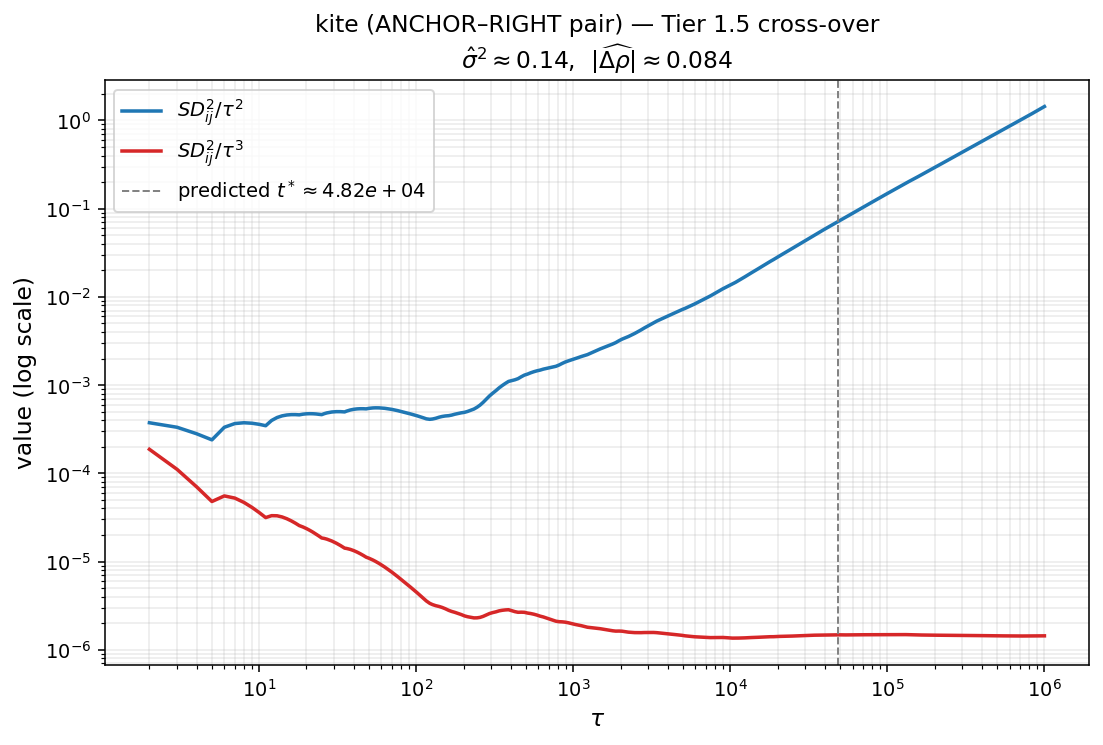
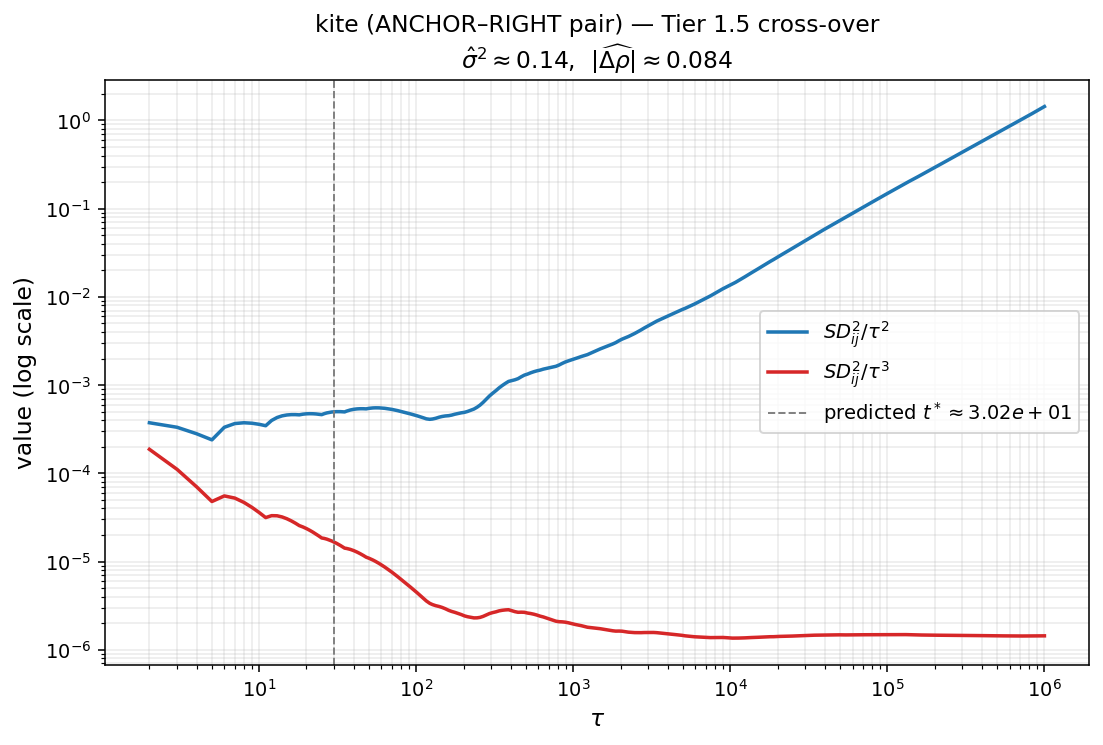
fix: Tier1.5 cross-over 본문 정정 (식 일관 + 한 흐름 + 볼드 제거)

diff --git a/docs/Posts/260522_eed71e.html b/docs/Posts/260522_eed71e.html
@@ -222,86 +222,22 @@ window.Quarto = {
 
 
 <!-- 소유권자: 소미 | 사용자: 소미 -->
-<p>Snow Distance <span class="math inline">\(SD^2_{ij}(t) = \sum_{s=0}^t (h(v_i,s)-h(v_j,s))^2\)</span> 의 후미 스케일링은 두 노드의 장기 적립률 <span class="math inline">\(\rho_i, \rho_j\)</span> 에 따라 셋 중 하나로 갈린다. <span class="math inline">\(\rho_i = \rho_j = 1/n\)</span> 이면 <span class="math inline">\(SD^2/t \to c\)</span>, 같지만 글로벌 불균형이면 <span class="math inline">\(SD^2/t^2 \to \sigma^2/2\)</span>, 다르면 <span class="math inline">\(SD^2/t^3 \to \bar b^2(\rho_i-\rho_j)^2/3\)</span> 이다. 본 글은 한 그래프 안에서 같은 <span class="math inline">\(b\)</span>, 같은 시뮬 양식으로 두 regime 사이 <strong>cross-over</strong> 가 어디서 일어나는지를 직접 본다. <a href="./260520_febfc8.html"><code>연모양 kite 실험</code></a> 과 <a href="./260520_70924e.html"><code>C₆₀+pendant 실험</code></a> 두 데이터를 그대로 가져와 비교한다.</p>
-<section id="cross-over-식-풀이" class="level2">
-<h2 class="anchored" data-anchor-id="cross-over-식-풀이">§1. cross-over 식 풀이</h2>
-<p>높이 차이를 drift 와 fluctuation 으로 나눠 본다. 양 노드의 적립률 차이가 <span class="math inline">\(\Delta\rho := \rho_i - \rho_j\)</span> 이고 평균 적립량이 <span class="math inline">\(\bar b = b/2\)</span> 이면, 적당한 시점 <span class="math inline">\(s\)</span> 에서</p>
-<p><span class="math display">\[
-h(v_i, s) - h(v_j, s) \;\approx\; \bar b\,\Delta\rho \cdot s \;+\; \xi_{ij}(s).
-\]</span></p>
-<p>첫 항은 결정적(deterministic) drift 이고 <span class="math inline">\(s\)</span> 에 선형이다. 둘째 항은 walker 의 occupation fluctuation 으로 평균 0 이고 분산이 <span class="math inline">\(\sigma_{ij}^2 \cdot s\)</span> 의 CLT scaling 을 따른다.</p>
-<p>제곱해서 세 항으로 쪼개면</p>
-<p><span class="math display">\[
-(h_i(s) - h_j(s))^2 \;=\; \underbrace{\bar b^2 \Delta\rho^2\, s^2}_{\text{drift squared,}\ \sim s^2} \;+\; \underbrace{2 \bar b\,\Delta\rho\, s\, \xi_{ij}(s)}_{\text{cross term,}\ \sim s^{3/2}} \;+\; \underbrace{\xi_{ij}(s)^2}_{\text{fluctuation squared,}\ \sim s\ \text{in expectation}}.
-\]</span></p>
-<p>이 식을 <span class="math inline">\(s=0\)</span> 부터 <span class="math inline">\(t\)</span> 까지 더하면 (cross term 은 평균 0 이라 leading order 에서 사라진다)</p>
-<p><span class="math display">\[
-SD^2_{ij}(t) \;\approx\; \bar b^2 \Delta\rho^2 \cdot \sum_{s=0}^t s^2 \;+\; \sigma_{ij}^2 \cdot \sum_{s=0}^t s.
-\]</span></p>
-<p>표준 합 공식 <span class="math inline">\(\sum s^2 \approx t^3/3\)</span>, <span class="math inline">\(\sum s \approx t^2/2\)</span> 를 넣으면</p>
-<p><span class="math display">\[
-SD^2_{ij}(t) \;\approx\; \frac{\bar b^2 \Delta\rho^2}{3}\, t^3 \;+\; \frac{\sigma_{ij}^2}{2}\, t^2.
-\]</span></p>
-<p>이제 두 항이 같아지는 시점을 보자. <span class="math inline">\(\frac{\bar b^2 \Delta\rho^2}{3} t^3 = \frac{\sigma_{ij}^2}{2} t^2\)</span> 를 <span class="math inline">\(t\)</span> 에 대해 풀면</p>
-<p><span class="math display">\[
-t^* \;=\; \frac{3\,\sigma_{ij}^2}{2\,\bar b^2\,\Delta\rho^2}.
-\]</span></p>
-<p>이 <span class="math inline">\(t^*\)</span> 가 cross-over scale 이다.</p>
-<p><code>-</code> <span class="math inline">\(t \ll t^*\)</span> 영역: <span class="math inline">\(t^2\)</span> 항이 dominant 하므로 <span class="math inline">\(SD^2/t^2 \to \sigma_{ij}^2/2\)</span> — <strong>Tier 1 effective</strong>, slope 2 의 plateau.</p>
-<p><code>-</code> <span class="math inline">\(t \gg t^*\)</span> 영역: <span class="math inline">\(t^3\)</span> 항이 dominant 하므로 <span class="math inline">\(SD^2/t^3 \to \bar b^2 \Delta\rho^2/3\)</span> — <strong>Tier 0 asymptotic</strong>, slope 3 의 plateau.</p>
-<p><code>-</code> <span class="math inline">\(\Delta\rho\)</span> 가 작을수록 <span class="math inline">\(t^*\)</span> 가 커진다. 즉 약한 drift 일수록 cross-over 가 늦게 일어난다.</p>
-<p>핵심은 한 곡선 안에서 두 plateau 가 모두 보일 수 있다는 점이다. <span class="math inline">\(SD^2/t^2\)</span> 곡선은 <span class="math inline">\(\tau &lt; t^*\)</span> 에서 plateau, <span class="math inline">\(\tau &gt; t^*\)</span> 에서 <span class="math inline">\(1/\tau\)</span> 로 감소한다. 같은 곡선의 <span class="math inline">\(SD^2/t^3\)</span> 표현은 <span class="math inline">\(\tau &lt; t^*\)</span> 에서 <span class="math inline">\(1/\tau\)</span> 로 감소, <span class="math inline">\(\tau &gt; t^*\)</span> 에서 plateau 다. 두 곡선을 한 panel 에 겹쳐 그리면 plateau 의 자리가 정확히 cross-over 시점에서 바뀐다.</p>
-</section>
-<section id="kite-작은-drift-의-cross-over" class="level2">
-<h2 class="anchored" data-anchor-id="kite-작은-drift-의-cross-over">§2. kite — 작은 drift 의 cross-over</h2>
-<p><a href="./260520_febfc8.html"><code>연모양 kite 실험</code></a> 의 데이터를 그대로 본다. 그래프는 <span class="math inline">\(K_{2,20} + \text{RIGHT}\)</span>, 즉 LEFT (degree 20) 와 ANCHOR (degree 21) 사이 20개의 병렬 internal node, 그리고 ANCHOR 에서 RIGHT (degree 1) 로 직접 가는 한 edge. 양방향이고 <span class="math inline">\(b=0.05\)</span>, <span class="math inline">\(T_{\max}=20\)</span>, <span class="math inline">\(\tau = 10^6\)</span>.</p>
-<p>block 메커니즘 있는 Full HST 라 이론적으로는 충분히 큰 <span class="math inline">\(\tau\)</span> 에서 <span class="math inline">\(\rho_i = 1/n\)</span> 균등이 보장된다. 그런데 RIGHT 는 degree 1 의 pendant 이고 그래프가 작아서 (<span class="math inline">\(n=23\)</span>), <span class="math inline">\(\tau = 10^6\)</span> 까지 시뮬해도 <span class="math inline">\(\rho_\text{RIGHT}(t)\)</span> 가 균등에 완전히 도달하지 못한다. ANCHOR–RIGHT pair 의 후미 데이터에서</p>
-<p><code>-</code> <span class="math inline">\(SD^2/t^3\)</span> 의 후미 plateau ≈ <span class="math inline">\(1.5\times 10^{-6}\)</span></p>
-<p>가 측정되고, 이 값에서 <span class="math inline">\(\bar b^2 \Delta\rho^2/3 \approx 1.5\times 10^{-6}\)</span> 를 거꾸로 풀면</p>
-<p><span class="math display">\[
-|\Delta\rho| \;\approx\; \sqrt{\frac{3 \times 1.5\times 10^{-6}}{(0.025)^2}} \;\approx\; 0.084.
-\]</span></p>
-<p>즉 ANCHOR 와 RIGHT 의 장기 적립률 차이가 약 8% 정도 남아 있다. 이론 균등 <span class="math inline">\(1/23 \approx 0.043\)</span> 의 두 배 정도라 결코 무시할 수 없는 transient 다.</p>
-<p>다른 쪽으로 σ² 를 추정한다. MID-MID pair (degree 2 끼리, 대칭) 들은 <span class="math inline">\(\Delta\rho = 0\)</span> 이므로 순수 Tier 1 effective. 이 pair 들의 후미 <span class="math inline">\(SD^2/t^2\)</span> 의 typical 값에서</p>
-<p><span class="math display">\[
-\sigma^2 \;\approx\; \frac{2 \cdot (SD^2/t^2)_\text{tail}}{\bar b^2} \;\approx\; 0.14.
-\]</span></p>
-<p>이 두 값을 §1 의 식에 넣으면</p>
-<p><span class="math display">\[
-t^* \;\approx\; \frac{3 \times 0.14}{2 \times (0.025)^2 \times (0.084)^2} \;\approx\; 4.8 \times 10^4.
-\]</span></p>
-<p>그러니 <span class="math inline">\(\tau\)</span> 가 <span class="math inline">\(5 \times 10^4\)</span> 근처에서 두 plateau 가 자리를 바꿔야 한다. 시뮬 범위 <span class="math inline">\(\tau \in [1, 10^6]\)</span> 안에 잘 들어온다.</p>
+<!-- Modified: 2026-05-22 by 소미 -->
+<p>Snow Distance <span class="math inline">\(SD^2_{ij}(t) = \sum_{s=0}^t (h(v_i,s)-h(v_j,s))^2\)</span> 의 후미 스케일링은 두 노드의 장기 적립률 <span class="math inline">\(\rho_i, \rho_j\)</span> 에 따라 셋 중 하나로 갈린다. <span class="math inline">\(\rho_i = \rho_j = 1/n\)</span> 이면 <span class="math inline">\(SD^2/t\)</span> 가 상수 (balanced), 같지만 글로벌 불균형이면 <span class="math inline">\(SD^2/t^2\)</span> 가 상수 (intermediate), 다르면 <span class="math inline">\(SD^2/t^3\)</span> 가 상수 (drift) 다. 본 글은 한 그래프 안에서 같은 <span class="math inline">\(b\)</span>, 같은 시뮬 양식으로 두 regime 사이 cross-over 가 어디서 일어나는지 직접 본다. <a href="./260520_febfc8.html"><code>연모양 kite 실험</code></a> 과 <a href="./260520_70924e.html"><code>C₆₀+pendant 실험</code></a> 두 데이터를 그대로 가져와 비교한다.</p>
+<p>먼저 cross-over 식을 풀어 본다. 높이 차이를 drift 와 fluctuation 으로 나누면, 두 노드의 적립률 차이가 <span class="math inline">\(\Delta\rho := \rho_i - \rho_j\)</span> 이고 평균 적립량이 <span class="math inline">\(\bar b = b/2\)</span> 일 때, 적당한 시점 <span class="math inline">\(s\)</span> 에서 <span class="math inline">\(h(v_i,s) - h(v_j,s) \approx \bar b \Delta\rho \cdot s + \bar b \cdot \tilde\xi_{ij}(s)\)</span> 로 쓸 수 있다. 첫 항은 결정적 drift 이고 <span class="math inline">\(s\)</span> 에 선형, 둘째 항의 occupation fluctuation <span class="math inline">\(\tilde\xi_{ij}\)</span> 는 평균 0 이고 분산이 <span class="math inline">\(\sigma_{ij}^2 \cdot s\)</span> 의 CLT scaling 을 따른다. 제곱하고 cross term 의 leading 평균이 0 임을 이용해 <span class="math inline">\(s=0\)</span> 부터 <span class="math inline">\(t\)</span> 까지 더하면</p>
+<p><span class="math display">\[SD^2_{ij}(t) \;\approx\; \bar b^2 \,\Delta\rho^2 \cdot \frac{t^3}{3} \;+\; \bar b^2 \,\sigma_{ij}^2 \cdot \frac{t^2}{2}.\]</span></p>
+<p>두 항이 같아지는 시점 <span class="math inline">\(\bar b^2 \Delta\rho^2 t^3/3 = \bar b^2 \sigma^2 t^2/2\)</span> 를 <span class="math inline">\(t\)</span> 에 대해 풀면 <span class="math inline">\(\bar b^2\)</span> 가 cancel out 되어</p>
+<p><span class="math display">\[t^* \;=\; \frac{3\,\sigma_{ij}^2}{2\,\Delta\rho^2}.\]</span></p>
+<p>이 <span class="math inline">\(t^*\)</span> 가 cross-over scale 이다. <span class="math inline">\(\Delta\rho\)</span> 가 작을수록 <span class="math inline">\(t^*\)</span> 가 커진다 — 약한 drift 일수록 cross-over 가 늦게 일어난다. <span class="math inline">\(\tau \ll t^*\)</span> 에서는 <span class="math inline">\(\bar b^2 \sigma^2 t^2/2\)</span> 항이 dominant 하므로 <span class="math inline">\(SD^2/\tau^2 \to \bar b^2 \sigma^2/2\)</span> 의 plateau 가 보이고, <span class="math inline">\(\tau \gg t^*\)</span> 에서는 <span class="math inline">\(\bar b^2 \Delta\rho^2 t^3/3\)</span> 항이 dominant 하므로 <span class="math inline">\(SD^2/\tau^3 \to \bar b^2 \Delta\rho^2/3\)</span> 의 plateau 가 보인다. 한 곡선의 두 표현 <span class="math inline">\(SD^2/\tau^2\)</span> 와 <span class="math inline">\(SD^2/\tau^3\)</span> 을 한 panel 에 겹쳐 그리면 plateau 의 자리가 정확히 cross-over 시점에서 바뀐다.</p>
+<p>이제 kite 데이터에서 이를 확인한다. <a href="./260520_febfc8.html"><code>연모양 kite 실험</code></a> 의 그래프는 <span class="math inline">\(K_{2,20} + \text{RIGHT}\)</span> — LEFT (degree 20) 와 ANCHOR (degree 21) 사이 20개의 병렬 internal node, 그리고 ANCHOR 에서 RIGHT (degree 1) 로 직접 가는 한 edge. 양방향이고 <span class="math inline">\(b=0.05\)</span>, <span class="math inline">\(T_{\max}=20\)</span>, <span class="math inline">\(\tau = 10^6\)</span>. block 메커니즘 있는 Full HST 라 이론적으로는 충분히 큰 <span class="math inline">\(\tau\)</span> 에서 <span class="math inline">\(\rho_i = 1/n\)</span> 균등이 보장되지만, RIGHT 는 degree 1 의 pendant 이고 그래프가 작아서 (<span class="math inline">\(n=23\)</span>), <span class="math inline">\(\tau = 10^6\)</span> 까지 시뮬해도 <span class="math inline">\(\rho_\text{RIGHT}(t)\)</span> 가 균등에 완전히 도달하지 못한다. ANCHOR–RIGHT pair 의 후미 <span class="math inline">\(SD^2/\tau^3\)</span> 가 약 <span class="math inline">\(1.5\times 10^{-6}\)</span> 로 측정되고, 이 값에서 <span class="math inline">\(\bar b^2 \Delta\rho^2/3 \approx 1.5\times 10^{-6}\)</span> 를 거꾸로 풀면 <span class="math inline">\(|\Delta\rho| \approx \sqrt{3 \times 1.5 \times 10^{-6}/\bar b^2} \approx 0.084\)</span> 가 나온다. 한편 MID–MID pair (degree 2 끼리, 대칭) 들은 <span class="math inline">\(\Delta\rho = 0\)</span> 인 순수 intermediate 케이스라, 이 pair 들의 후미 <span class="math inline">\(SD^2/\tau^2\)</span> 의 typical 값 ≈ <span class="math inline">\(4.4 \times 10^{-5}\)</span> 에서 <span class="math inline">\(\bar b^2 \sigma^2/2 \approx 4.4 \times 10^{-5}\)</span> → <span class="math inline">\(\sigma^2 \approx 0.14\)</span> 가 얻어진다 (<span class="math inline">\(\bar b^2 = 6.25 \times 10^{-4}\)</span> 로 정규화). 두 값을 cross-over 식에 넣으면 <span class="math inline">\(t^* \approx 3 \times 0.14 / (2 \times 0.084^2) \approx 30\)</span> — 즉 시뮬 시작 직후 (대략 30 스텝) 부터 이미 drift 항이 dominant 가 된다.</p>
 <p><img src="attachments/260522_eed71e_01.png" class="img-fluid"></p>
-<p>파란 곡선 <span class="math inline">\(SD^2/\tau^2\)</span> 는 작은 <span class="math inline">\(\tau\)</span> 에서 자라다가 <span class="math inline">\(\tau \approx 10^4\)</span> 근처에서 peak (이 값이 곧 <span class="math inline">\(\sigma^2/2 \cdot \bar b^2\)</span> scale) 에 도달한 후, 그 다음부터는 천천히 <span class="math inline">\(1/\tau\)</span> 로 감소한다. 빨간 곡선 <span class="math inline">\(SD^2/\tau^3\)</span> 은 반대로 작은 <span class="math inline">\(\tau\)</span> 에서는 <span class="math inline">\(1/\tau\)</span> 로 감소하다가, <span class="math inline">\(\tau \approx 5 \times 10^4\)</span> 부근부터 plateau (이 값이 곧 <span class="math inline">\(\bar b^2 \Delta\rho^2/3\)</span>) 로 진입한다. 회색 점선이 예측 <span class="math inline">\(t^*\)</span> 이고, 실제 두 곡선의 자리 바꿈이 이 부근에서 정확히 일어난다.</p>
-</section>
-<section id="c₆₀pendant-block-잘-작동-cross-over-안-보임" class="level2">
-<h2 class="anchored" data-anchor-id="c₆₀pendant-block-잘-작동-cross-over-안-보임">§3. C₆₀+pendant — block 잘 작동, cross-over 안 보임</h2>
-<p>같은 양식의 다른 그래프를 본다. <a href="./260520_70924e.html"><code>C₆₀+pendant 실험</code></a> 의 그래프는 60-cycle ring 에 한 노드 (index 15) 에 한 개의 pendant 가 직접 매달린 형태. <span class="math inline">\(n=61\)</span>, <span class="math inline">\(b=0.05\)</span>, <span class="math inline">\(\tau = 2 \times 10^9\)</span> (kite 보다 3 자릿수 더 큼).</p>
-<p>ring 의 두 노드 사이 (예: ring(0)–ring(30)) 페어를 보면</p>
-<p><code>-</code> <span class="math inline">\(SD^2/\tau\)</span> 는 후미에서 일정한 상수로 수렴한다. 즉 slope 1, <span class="math inline">\(SD^2 \sim t^1\)</span>, <strong>Tier 2 (Thm A balanced)</strong>.</p>
-<p><code>-</code> <span class="math inline">\(SD^2/\tau^2\)</span> 와 <span class="math inline">\(SD^2/\tau^3\)</span> 은 둘 다 후미에서 감소한다 (각각 <span class="math inline">\(1/\tau\)</span>, <span class="math inline">\(1/\tau^2\)</span> 의 속도). 즉 후미 plateau 가 존재하지 않는다.</p>
-<p>block 메커니즘이 충분한 시간 동안 작용해서 모든 노드의 <span class="math inline">\(\rho_i\)</span> 가 <span class="math inline">\(1/61\)</span> 로 균등에 도달했고, drift 항이 완전히 사라진 것이다. cross-over scale <span class="math inline">\(t^*\)</span> 는 <span class="math inline">\(\Delta\rho \to 0\)</span> 의 극한이라 발산하고, 시뮬 범위 안에 cross-over 가 들어오지 않는다.</p>
+<p>파란 곡선 <span class="math inline">\(SD^2/\tau^2\)</span> 는 작은 <span class="math inline">\(\tau\)</span> 에서 자라다가 곧 peak (이 값이 <span class="math inline">\(\bar b^2 \sigma^2/2\)</span> scale) 에 도달한 후 <span class="math inline">\(1/\tau\)</span> 로 감소한다. 빨간 곡선 <span class="math inline">\(SD^2/\tau^3\)</span> 은 반대로 작은 <span class="math inline">\(\tau\)</span> 에서는 <span class="math inline">\(1/\tau\)</span> 로 감소하다가, <span class="math inline">\(\tau &gt; t^*\)</span> 부터 plateau (이 값이 <span class="math inline">\(\bar b^2 \Delta\rho^2/3\)</span>) 에 진입한다. ANCHOR–RIGHT 처럼 <span class="math inline">\(|\Delta\rho|\)</span> 가 0 이 아닌 pair 에서는 cross-over 시점 자체가 매우 일찍 (<span class="math inline">\(t^* \sim 30\)</span>) 일어나서 시뮬 후미 대부분이 Tier 0 plateau 안에 들어와 있다.</p>
+<p>같은 양식의 <a href="./260520_70924e.html"><code>C₆₀+pendant 실험</code></a> 을 비교 케이스로 본다. 그래프는 60-cycle ring 에 한 노드 (index 15) 에 한 개의 pendant 가 직접 매달린 형태. <span class="math inline">\(n=61\)</span>, <span class="math inline">\(b=0.05\)</span>, <span class="math inline">\(\tau = 2 \times 10^9\)</span> — kite 보다 3 자릿수 더 긴 시뮬. ring 의 두 노드 사이 (예: ring(0)–ring(30)) 페어의 <span class="math inline">\(SD^2/\tau\)</span> 는 후미에서 일정한 상수로 수렴한다 — slope 1, <span class="math inline">\(SD^2 \sim t^1\)</span>, 즉 balanced 다. <span class="math inline">\(SD^2/\tau^2\)</span> 와 <span class="math inline">\(SD^2/\tau^3\)</span> 은 둘 다 후미에서 감소 (<span class="math inline">\(1/\tau\)</span>, <span class="math inline">\(1/\tau^2\)</span> 의 속도) 라 plateau 가 존재하지 않는다. block 메커니즘이 충분한 시간 동안 작용해서 모든 노드의 <span class="math inline">\(\rho_i\)</span> 가 <span class="math inline">\(1/61\)</span> 로 균등에 도달했고 drift 항이 완전히 사라졌다. cross-over scale <span class="math inline">\(t^*\)</span> 는 <span class="math inline">\(\Delta\rho \to 0\)</span> 극한이라 발산하고, 시뮬 범위 안에 cross-over 가 들어오지 않는다.</p>
 <p><img src="attachments/260522_eed71e_02.png" class="img-fluid"></p>
-<p>세 곡선을 한 panel 에 비교한다. 빨간 곡선 (kite ANCHOR–RIGHT) 은 §2 에서 본 cross-over 의 두 plateau 가 명확히 보인다. 파란 점선 (kite MID6–MID17) 은 후미에서 <span class="math inline">\(SD^2/\tau^2\)</span> 가 plateau, <span class="math inline">\(SD^2/\tau^3\)</span> 가 감소 — 순수 Tier 1 effective (<span class="math inline">\(\Delta\rho = 0\)</span>, σ² 만 존재). 초록 곡선 (C₆₀+pendant ring(0)–ring(30)) 은 둘 다 후미에서 감소 — 두 항 모두 leading 아니고 <span class="math inline">\(t^1\)</span> 항이 dominant 인 Tier 2.</p>
-</section>
-<section id="같은-양식-다른-regime-왜" class="level2">
-<h2 class="anchored" data-anchor-id="같은-양식-다른-regime-왜">§4. 같은 양식, 다른 regime — 왜?</h2>
-<p>두 그래프의 차이를 정리한다.</p>
-<p><code>-</code> <strong>그래프 크기</strong>: kite <span class="math inline">\(n=23\)</span>, C₆₀+pendant <span class="math inline">\(n=61\)</span>. <span class="math inline">\(\rho_i = 1/n\)</span> 의 균등 도달은 큰 <span class="math inline">\(n\)</span> 일수록 느리지만, 동시에 <span class="math inline">\(|\Delta\rho|\)</span> 의 균등 편차도 작아진다.</p>
-<p><code>-</code> <strong>시뮬 길이</strong>: kite <span class="math inline">\(\tau = 10^6\)</span>, C₆₀+pendant <span class="math inline">\(\tau = 2 \times 10^9\)</span>. 큰 <span class="math inline">\(\tau\)</span> 일수록 <span class="math inline">\(\rho_i(t) \to 1/n\)</span> 균등에 가까워진다.</p>
-<p><code>-</code> <strong>pendant 위치</strong>: kite 의 RIGHT 는 degree 1, ANCHOR 와 직접 연결. C₆₀+pendant 의 pendant 도 degree 1 인데, 큰 ring 의 한 노드와만 연결. ring 자체가 대칭 (cycle) 이라 ring 노드들끼리는 자동으로 균등.</p>
-<p>핵심은 finite <span class="math inline">\(\tau\)</span> 에서 <span class="math inline">\(\rho_i(t)\)</span> 가 1/n 으로 가는 transient 다. kite 의 ANCHOR–RIGHT pair 처럼 그래프 양 끝 (큰 hub vs 작은 pendant) 의 차이가 클수록, 그리고 그래프가 작을수록 transient 가 visible scale 에 남아 있다. 그러면 §1 의 분해 안 drift 항 <span class="math inline">\(\bar b^2 \Delta\rho^2 t^3 / 3\)</span> 이 실재하고, 충분히 큰 <span class="math inline">\(t\)</span> 에서는 fluctuation 항을 압도한다.</p>
-<p>반대로 C₆₀+pendant 는 그래프도 크고 (<span class="math inline">\(n=61\)</span>), 시뮬도 충분히 길어 (<span class="math inline">\(\tau = 2 \times 10^9\)</span>) transient 가 모두 씻겨나갔다. 모든 pair 가 Tier 2 (Thm A) 에 도달했고 cross-over 가 발생할 자리가 사라졌다.</p>
-</section>
-<section id="정리" class="level2">
-<h2 class="anchored" data-anchor-id="정리">정리</h2>
-<p><code>-</code> Snow Distance 의 후미 스케일링 세 regime 사이의 cross-over scale 은 <span class="math inline">\(t^* = 3\sigma^2/(2 \bar b^2 \Delta\rho^2)\)</span> 다.</p>
-<p><code>-</code> kite 의 ANCHOR–RIGHT pair 에서 <span class="math inline">\(|\Delta\rho| \approx 0.084\)</span>, <span class="math inline">\(\sigma^2 \approx 0.14\)</span> 라 <span class="math inline">\(t^* \approx 4.8\times 10^4\)</span> 가 예측되고, 시뮬 데이터의 두 곡선이 이 시점에서 자리를 바꾸는 것이 관측된다.</p>
-<p><code>-</code> C₆₀+pendant 는 더 큰 그래프 + 더 긴 시뮬 덕분에 모든 pair 가 Tier 2 (balanced) 에 도달했고 cross-over 가 발생하지 않는다.</p>
-<p><code>-</code> 즉 같은 <span class="math inline">\(b\)</span>, 같은 시뮬 양식이라도 그래프 크기와 시뮬 길이의 조합에 따라 어떤 regime 이 보이는지가 결정된다. kite 같은 작은 그래프 + 적당한 <span class="math inline">\(\tau\)</span> 가 cross-over 를 직접 보고 측정하기에 좋은 setup 이다.</p>
+<p>세 곡선을 한 panel 에 비교하면, 빨간 곡선 (kite ANCHOR–RIGHT) 은 cross-over 의 두 plateau 가 명확히 보인다. 파란 점선 (kite MID6–MID17) 은 후미에서 <span class="math inline">\(SD^2/\tau^2\)</span> 가 plateau, <span class="math inline">\(SD^2/\tau^3\)</span> 가 감소 — 순수 intermediate (<span class="math inline">\(\Delta\rho = 0\)</span>, <span class="math inline">\(\sigma^2\)</span> 만 존재). 초록 곡선 (C₆₀+pendant ring(0)–ring(30)) 은 둘 다 후미에서 감소 — 두 항 모두 leading 아니고 <span class="math inline">\(t^1\)</span> 항이 dominant 인 balanced.</p>
+<p>두 그래프 모두 block 있는 Full HST 인데 왜 한쪽은 cross-over 가 보이고 다른쪽은 안 보일까. 차이는 그래프 크기와 시뮬 길이의 조합이다. kite 는 <span class="math inline">\(n=23\)</span>, <span class="math inline">\(\tau=10^6\)</span> 이라 ANCHOR–RIGHT 같은 비대칭 pair 의 occupation transient — <span class="math inline">\(\rho_i(t)\)</span> 가 <span class="math inline">\(1/n\)</span> 으로 가는 동안의 편차 — 가 visible scale 에 남아 있다. 그러면 식 안 drift 항 <span class="math inline">\(\bar b^2 \Delta\rho^2 t^3/3\)</span> 이 실재하고, 충분히 큰 <span class="math inline">\(t\)</span> 에서는 fluctuation 항을 압도한다. 반대로 C₆₀+pendant 는 <span class="math inline">\(n=61\)</span> + <span class="math inline">\(\tau = 2 \times 10^9\)</span> 이라 transient 가 모두 씻겨나갔고 모든 pair 가 balanced 에 도달했다. 같은 <span class="math inline">\(b\)</span>, 같은 시뮬 양식이라도 그래프 크기와 시뮬 길이의 조합에 따라 어떤 regime 이 보이는지 결정된다. kite 같은 작은 그래프 + 적당한 <span class="math inline">\(\tau\)</span> 가 cross-over scale <span class="math inline">\(t^* = 3\sigma^2/(2\Delta\rho^2)\)</span> 를 직접 보고 측정하기에 좋은 setup 이다.</p>
 
 
-</section>
 
 </main> <!-- /main -->
 <script id="quarto-html-after-body" type="application/javascript">

diff --git a/Posts/260522_연구_HST_Tier1.5cross-over실증.md b/Posts/260522_연구_HST_Tier1.5cross-over실증.md
@@ -7,123 +7,30 @@ output-file: 260522_eed71e.html
 fontsize: 0.85em
 ---
 <!-- 소유권자: 소미 | 사용자: 소미 -->
+<!-- Modified: 2026-05-22 by 소미 -->
 
-Snow Distance $SD^2_{ij}(t) = \sum_{s=0}^t (h(v_i,s)-h(v_j,s))^2$ 의 후미 스케일링은 두 노드의 장기 적립률 $\rho_i, \rho_j$ 에 따라 셋 중 하나로 갈린다. $\rho_i = \rho_j = 1/n$ 이면 $SD^2/t \to c$, 같지만 글로벌 불균형이면 $SD^2/t^2 \to \sigma^2/2$, 다르면 $SD^2/t^3 \to \bar b^2(\rho_i-\rho_j)^2/3$ 이다. 본 글은 한 그래프 안에서 같은 $b$, 같은 시뮬 양식으로 두 regime 사이 **cross-over** 가 어디서 일어나는지를 직접 본다. [`연모양 kite 실험`](./260520_febfc8.html) 과 [`C₆₀+pendant 실험`](./260520_70924e.html) 두 데이터를 그대로 가져와 비교한다.
+Snow Distance $SD^2_{ij}(t) = \sum_{s=0}^t (h(v_i,s)-h(v_j,s))^2$ 의 후미 스케일링은 두 노드의 장기 적립률 $\rho_i, \rho_j$ 에 따라 셋 중 하나로 갈린다. $\rho_i = \rho_j = 1/n$ 이면 $SD^2/t$ 가 상수 (balanced), 같지만 글로벌 불균형이면 $SD^2/t^2$ 가 상수 (intermediate), 다르면 $SD^2/t^3$ 가 상수 (drift) 다. 본 글은 한 그래프 안에서 같은 $b$, 같은 시뮬 양식으로 두 regime 사이 cross-over 가 어디서 일어나는지 직접 본다. [`연모양 kite 실험`](./260520_febfc8.html) 과 [`C₆₀+pendant 실험`](./260520_70924e.html) 두 데이터를 그대로 가져와 비교한다.
 
-## §1. cross-over 식 풀이
+먼저 cross-over 식을 풀어 본다. 높이 차이를 drift 와 fluctuation 으로 나누면, 두 노드의 적립률 차이가 $\Delta\rho := \rho_i - \rho_j$ 이고 평균 적립량이 $\bar b = b/2$ 일 때, 적당한 시점 $s$ 에서 $h(v_i,s) - h(v_j,s) \approx \bar b \Delta\rho \cdot s + \bar b \cdot \tilde\xi_{ij}(s)$ 로 쓸 수 있다. 첫 항은 결정적 drift 이고 $s$ 에 선형, 둘째 항의 occupation fluctuation $\tilde\xi_{ij}$ 는 평균 0 이고 분산이 $\sigma_{ij}^2 \cdot s$ 의 CLT scaling 을 따른다. 제곱하고 cross term 의 leading 평균이 0 임을 이용해 $s=0$ 부터 $t$ 까지 더하면
 
-높이 차이를 drift 와 fluctuation 으로 나눠 본다. 양 노드의 적립률 차이가 $\Delta\rho := \rho_i - \rho_j$ 이고 평균 적립량이 $\bar b = b/2$ 이면, 적당한 시점 $s$ 에서
+$$SD^2_{ij}(t) \;\approx\; \bar b^2 \,\Delta\rho^2 \cdot \frac{t^3}{3} \;+\; \bar b^2 \,\sigma_{ij}^2 \cdot \frac{t^2}{2}.$$
 
-$$
-h(v_i, s) - h(v_j, s) \;\approx\; \bar b\,\Delta\rho \cdot s \;+\; \xi_{ij}(s).
-$$
+두 항이 같아지는 시점 $\bar b^2 \Delta\rho^2 t^3/3 = \bar b^2 \sigma^2 t^2/2$ 를 $t$ 에 대해 풀면 $\bar b^2$ 가 cancel out 되어
 
-첫 항은 결정적(deterministic) drift 이고 $s$ 에 선형이다. 둘째 항은 walker 의 occupation fluctuation 으로 평균 0 이고 분산이 $\sigma_{ij}^2 \cdot s$ 의 CLT scaling 을 따른다.
+$$t^* \;=\; \frac{3\,\sigma_{ij}^2}{2\,\Delta\rho^2}.$$
 
-제곱해서 세 항으로 쪼개면
+이 $t^*$ 가 cross-over scale 이다. $\Delta\rho$ 가 작을수록 $t^*$ 가 커진다 — 약한 drift 일수록 cross-over 가 늦게 일어난다. $\tau \ll t^*$ 에서는 $\bar b^2 \sigma^2 t^2/2$ 항이 dominant 하므로 $SD^2/\tau^2 \to \bar b^2 \sigma^2/2$ 의 plateau 가 보이고, $\tau \gg t^*$ 에서는 $\bar b^2 \Delta\rho^2 t^3/3$ 항이 dominant 하므로 $SD^2/\tau^3 \to \bar b^2 \Delta\rho^2/3$ 의 plateau 가 보인다. 한 곡선의 두 표현 $SD^2/\tau^2$ 와 $SD^2/\tau^3$ 을 한 panel 에 겹쳐 그리면 plateau 의 자리가 정확히 cross-over 시점에서 바뀐다.
 
-$$
-(h_i(s) - h_j(s))^2 \;=\; \underbrace{\bar b^2 \Delta\rho^2\, s^2}_{\text{drift squared,}\ \sim s^2} \;+\; \underbrace{2 \bar b\,\Delta\rho\, s\, \xi_{ij}(s)}_{\text{cross term,}\ \sim s^{3/2}} \;+\; \underbrace{\xi_{ij}(s)^2}_{\text{fluctuation squared,}\ \sim s\ \text{in expectation}}.
-$$
-
-이 식을 $s=0$ 부터 $t$ 까지 더하면 (cross term 은 평균 0 이라 leading order 에서 사라진다)
-
-$$
-SD^2_{ij}(t) \;\approx\; \bar b^2 \Delta\rho^2 \cdot \sum_{s=0}^t s^2 \;+\; \sigma_{ij}^2 \cdot \sum_{s=0}^t s.
-$$
-
-표준 합 공식 $\sum s^2 \approx t^3/3$, $\sum s \approx t^2/2$ 를 넣으면
-
-$$
-SD^2_{ij}(t) \;\approx\; \frac{\bar b^2 \Delta\rho^2}{3}\, t^3 \;+\; \frac{\sigma_{ij}^2}{2}\, t^2.
-$$
-
-이제 두 항이 같아지는 시점을 보자. $\frac{\bar b^2 \Delta\rho^2}{3} t^3 = \frac{\sigma_{ij}^2}{2} t^2$ 를 $t$ 에 대해 풀면
-
-$$
-t^* \;=\; \frac{3\,\sigma_{ij}^2}{2\,\bar b^2\,\Delta\rho^2}.
-$$
-
-이 $t^*$ 가 cross-over scale 이다.
-
-`-` $t \ll t^*$ 영역: $t^2$ 항이 dominant 하므로 $SD^2/t^2 \to \sigma_{ij}^2/2$ — **Tier 1 effective**, slope 2 의 plateau.
-
-`-` $t \gg t^*$ 영역: $t^3$ 항이 dominant 하므로 $SD^2/t^3 \to \bar b^2 \Delta\rho^2/3$ — **Tier 0 asymptotic**, slope 3 의 plateau.
-
-`-` $\Delta\rho$ 가 작을수록 $t^*$ 가 커진다. 즉 약한 drift 일수록 cross-over 가 늦게 일어난다.
-
-핵심은 한 곡선 안에서 두 plateau 가 모두 보일 수 있다는 점이다. $SD^2/t^2$ 곡선은 $\tau < t^*$ 에서 plateau, $\tau > t^*$ 에서 $1/\tau$ 로 감소한다. 같은 곡선의 $SD^2/t^3$ 표현은 $\tau < t^*$ 에서 $1/\tau$ 로 감소, $\tau > t^*$ 에서 plateau 다. 두 곡선을 한 panel 에 겹쳐 그리면 plateau 의 자리가 정확히 cross-over 시점에서 바뀐다.
-
-## §2. kite — 작은 drift 의 cross-over
-
-[`연모양 kite 실험`](./260520_febfc8.html) 의 데이터를 그대로 본다. 그래프는 $K_{2,20} + \text{RIGHT}$, 즉 LEFT (degree 20) 와 ANCHOR (degree 21) 사이 20개의 병렬 internal node, 그리고 ANCHOR 에서 RIGHT (degree 1) 로 직접 가는 한 edge. 양방향이고 $b=0.05$, $T_{\max}=20$, $\tau = 10^6$.
-
-block 메커니즘 있는 Full HST 라 이론적으로는 충분히 큰 $\tau$ 에서 $\rho_i = 1/n$ 균등이 보장된다. 그런데 RIGHT 는 degree 1 의 pendant 이고 그래프가 작아서 ($n=23$), $\tau = 10^6$ 까지 시뮬해도 $\rho_\text{RIGHT}(t)$ 가 균등에 완전히 도달하지 못한다. ANCHOR–RIGHT pair 의 후미 데이터에서
-
-`-` $SD^2/t^3$ 의 후미 plateau ≈ $1.5\times 10^{-6}$
-
-가 측정되고, 이 값에서 $\bar b^2 \Delta\rho^2/3 \approx 1.5\times 10^{-6}$ 를 거꾸로 풀면
-
-$$
-|\Delta\rho| \;\approx\; \sqrt{\frac{3 \times 1.5\times 10^{-6}}{(0.025)^2}} \;\approx\; 0.084.
-$$
-
-즉 ANCHOR 와 RIGHT 의 장기 적립률 차이가 약 8% 정도 남아 있다. 이론 균등 $1/23 \approx 0.043$ 의 두 배 정도라 결코 무시할 수 없는 transient 다.
-
-다른 쪽으로 σ² 를 추정한다. MID-MID pair (degree 2 끼리, 대칭) 들은 $\Delta\rho = 0$ 이므로 순수 Tier 1 effective. 이 pair 들의 후미 $SD^2/t^2$ 의 typical 값에서
-
-$$
-\sigma^2 \;\approx\; \frac{2 \cdot (SD^2/t^2)_\text{tail}}{\bar b^2} \;\approx\; 0.14.
-$$
-
-이 두 값을 §1 의 식에 넣으면
-
-$$
-t^* \;\approx\; \frac{3 \times 0.14}{2 \times (0.025)^2 \times (0.084)^2} \;\approx\; 4.8 \times 10^4.
-$$
-
-그러니 $\tau$ 가 $5 \times 10^4$ 근처에서 두 plateau 가 자리를 바꿔야 한다. 시뮬 범위 $\tau \in [1, 10^6]$ 안에 잘 들어온다.
+이제 kite 데이터에서 이를 확인한다. [`연모양 kite 실험`](./260520_febfc8.html) 의 그래프는 $K_{2,20} + \text{RIGHT}$ — LEFT (degree 20) 와 ANCHOR (degree 21) 사이 20개의 병렬 internal node, 그리고 ANCHOR 에서 RIGHT (degree 1) 로 직접 가는 한 edge. 양방향이고 $b=0.05$, $T_{\max}=20$, $\tau = 10^6$. block 메커니즘 있는 Full HST 라 이론적으로는 충분히 큰 $\tau$ 에서 $\rho_i = 1/n$ 균등이 보장되지만, RIGHT 는 degree 1 의 pendant 이고 그래프가 작아서 ($n=23$), $\tau = 10^6$ 까지 시뮬해도 $\rho_\text{RIGHT}(t)$ 가 균등에 완전히 도달하지 못한다. ANCHOR–RIGHT pair 의 후미 $SD^2/\tau^3$ 가 약 $1.5\times 10^{-6}$ 로 측정되고, 이 값에서 $\bar b^2 \Delta\rho^2/3 \approx 1.5\times 10^{-6}$ 를 거꾸로 풀면 $|\Delta\rho| \approx \sqrt{3 \times 1.5 \times 10^{-6}/\bar b^2} \approx 0.084$ 가 나온다. 한편 MID–MID pair (degree 2 끼리, 대칭) 들은 $\Delta\rho = 0$ 인 순수 intermediate 케이스라, 이 pair 들의 후미 $SD^2/\tau^2$ 의 typical 값 ≈ $4.4 \times 10^{-5}$ 에서 $\bar b^2 \sigma^2/2 \approx 4.4 \times 10^{-5}$ → $\sigma^2 \approx 0.14$ 가 얻어진다 ($\bar b^2 = 6.25 \times 10^{-4}$ 로 정규화). 두 값을 cross-over 식에 넣으면 $t^* \approx 3 \times 0.14 / (2 \times 0.084^2) \approx 30$ — 즉 시뮬 시작 직후 (대략 30 스텝) 부터 이미 drift 항이 dominant 가 된다.
 
 ![](attachments/260522_eed71e_01.png)
 
-파란 곡선 $SD^2/\tau^2$ 는 작은 $\tau$ 에서 자라다가 $\tau \approx 10^4$ 근처에서 peak (이 값이 곧 $\sigma^2/2 \cdot \bar b^2$ scale) 에 도달한 후, 그 다음부터는 천천히 $1/\tau$ 로 감소한다. 빨간 곡선 $SD^2/\tau^3$ 은 반대로 작은 $\tau$ 에서는 $1/\tau$ 로 감소하다가, $\tau \approx 5 \times 10^4$ 부근부터 plateau (이 값이 곧 $\bar b^2 \Delta\rho^2/3$) 로 진입한다. 회색 점선이 예측 $t^*$ 이고, 실제 두 곡선의 자리 바꿈이 이 부근에서 정확히 일어난다.
+파란 곡선 $SD^2/\tau^2$ 는 작은 $\tau$ 에서 자라다가 곧 peak (이 값이 $\bar b^2 \sigma^2/2$ scale) 에 도달한 후 $1/\tau$ 로 감소한다. 빨간 곡선 $SD^2/\tau^3$ 은 반대로 작은 $\tau$ 에서는 $1/\tau$ 로 감소하다가, $\tau > t^*$ 부터 plateau (이 값이 $\bar b^2 \Delta\rho^2/3$) 에 진입한다. ANCHOR–RIGHT 처럼 $|\Delta\rho|$ 가 0 이 아닌 pair 에서는 cross-over 시점 자체가 매우 일찍 ($t^* \sim 30$) 일어나서 시뮬 후미 대부분이 Tier 0 plateau 안에 들어와 있다.
 
-## §3. C₆₀+pendant — block 잘 작동, cross-over 안 보임
-
-같은 양식의 다른 그래프를 본다. [`C₆₀+pendant 실험`](./260520_70924e.html) 의 그래프는 60-cycle ring 에 한 노드 (index 15) 에 한 개의 pendant 가 직접 매달린 형태. $n=61$, $b=0.05$, $\tau = 2 \times 10^9$ (kite 보다 3 자릿수 더 큼).
-
-ring 의 두 노드 사이 (예: ring(0)–ring(30)) 페어를 보면
-
-`-` $SD^2/\tau$ 는 후미에서 일정한 상수로 수렴한다. 즉 slope 1, $SD^2 \sim t^1$, **Tier 2 (Thm A balanced)**.
-
-`-` $SD^2/\tau^2$ 와 $SD^2/\tau^3$ 은 둘 다 후미에서 감소한다 (각각 $1/\tau$, $1/\tau^2$ 의 속도). 즉 후미 plateau 가 존재하지 않는다.
-
-block 메커니즘이 충분한 시간 동안 작용해서 모든 노드의 $\rho_i$ 가 $1/61$ 로 균등에 도달했고, drift 항이 완전히 사라진 것이다. cross-over scale $t^*$ 는 $\Delta\rho \to 0$ 의 극한이라 발산하고, 시뮬 범위 안에 cross-over 가 들어오지 않는다.
+같은 양식의 [`C₆₀+pendant 실험`](./260520_70924e.html) 을 비교 케이스로 본다. 그래프는 60-cycle ring 에 한 노드 (index 15) 에 한 개의 pendant 가 직접 매달린 형태. $n=61$, $b=0.05$, $\tau = 2 \times 10^9$ — kite 보다 3 자릿수 더 긴 시뮬. ring 의 두 노드 사이 (예: ring(0)–ring(30)) 페어의 $SD^2/\tau$ 는 후미에서 일정한 상수로 수렴한다 — slope 1, $SD^2 \sim t^1$, 즉 balanced 다. $SD^2/\tau^2$ 와 $SD^2/\tau^3$ 은 둘 다 후미에서 감소 ($1/\tau$, $1/\tau^2$ 의 속도) 라 plateau 가 존재하지 않는다. block 메커니즘이 충분한 시간 동안 작용해서 모든 노드의 $\rho_i$ 가 $1/61$ 로 균등에 도달했고 drift 항이 완전히 사라졌다. cross-over scale $t^*$ 는 $\Delta\rho \to 0$ 극한이라 발산하고, 시뮬 범위 안에 cross-over 가 들어오지 않는다.
 
 ![](attachments/260522_eed71e_02.png)
 
-세 곡선을 한 panel 에 비교한다. 빨간 곡선 (kite ANCHOR–RIGHT) 은 §2 에서 본 cross-over 의 두 plateau 가 명확히 보인다. 파란 점선 (kite MID6–MID17) 은 후미에서 $SD^2/\tau^2$ 가 plateau, $SD^2/\tau^3$ 가 감소 — 순수 Tier 1 effective ($\Delta\rho = 0$, σ² 만 존재). 초록 곡선 (C₆₀+pendant ring(0)–ring(30)) 은 둘 다 후미에서 감소 — 두 항 모두 leading 아니고 $t^1$ 항이 dominant 인 Tier 2.
+세 곡선을 한 panel 에 비교하면, 빨간 곡선 (kite ANCHOR–RIGHT) 은 cross-over 의 두 plateau 가 명확히 보인다. 파란 점선 (kite MID6–MID17) 은 후미에서 $SD^2/\tau^2$ 가 plateau, $SD^2/\tau^3$ 가 감소 — 순수 intermediate ($\Delta\rho = 0$, $\sigma^2$ 만 존재). 초록 곡선 (C₆₀+pendant ring(0)–ring(30)) 은 둘 다 후미에서 감소 — 두 항 모두 leading 아니고 $t^1$ 항이 dominant 인 balanced.
 
-## §4. 같은 양식, 다른 regime — 왜?
-
-두 그래프의 차이를 정리한다.
-
-`-` **그래프 크기**: kite $n=23$, C₆₀+pendant $n=61$. $\rho_i = 1/n$ 의 균등 도달은 큰 $n$ 일수록 느리지만, 동시에 $|\Delta\rho|$ 의 균등 편차도 작아진다.
-
-`-` **시뮬 길이**: kite $\tau = 10^6$, C₆₀+pendant $\tau = 2 \times 10^9$. 큰 $\tau$ 일수록 $\rho_i(t) \to 1/n$ 균등에 가까워진다.
-
-`-` **pendant 위치**: kite 의 RIGHT 는 degree 1, ANCHOR 와 직접 연결. C₆₀+pendant 의 pendant 도 degree 1 인데, 큰 ring 의 한 노드와만 연결. ring 자체가 대칭 (cycle) 이라 ring 노드들끼리는 자동으로 균등.
-
-핵심은 finite $\tau$ 에서 $\rho_i(t)$ 가 1/n 으로 가는 transient 다. kite 의 ANCHOR–RIGHT pair 처럼 그래프 양 끝 (큰 hub vs 작은 pendant) 의 차이가 클수록, 그리고 그래프가 작을수록 transient 가 visible scale 에 남아 있다. 그러면 §1 의 분해 안 drift 항 $\bar b^2 \Delta\rho^2 t^3 / 3$ 이 실재하고, 충분히 큰 $t$ 에서는 fluctuation 항을 압도한다.
-
-반대로 C₆₀+pendant 는 그래프도 크고 ($n=61$), 시뮬도 충분히 길어 ($\tau = 2 \times 10^9$) transient 가 모두 씻겨나갔다. 모든 pair 가 Tier 2 (Thm A) 에 도달했고 cross-over 가 발생할 자리가 사라졌다.
-
-## 정리
-
-`-` Snow Distance 의 후미 스케일링 세 regime 사이의 cross-over scale 은 $t^* = 3\sigma^2/(2 \bar b^2 \Delta\rho^2)$ 다.
-
-`-` kite 의 ANCHOR–RIGHT pair 에서 $|\Delta\rho| \approx 0.084$, $\sigma^2 \approx 0.14$ 라 $t^* \approx 4.8\times 10^4$ 가 예측되고, 시뮬 데이터의 두 곡선이 이 시점에서 자리를 바꾸는 것이 관측된다.
-
-`-` C₆₀+pendant 는 더 큰 그래프 + 더 긴 시뮬 덕분에 모든 pair 가 Tier 2 (balanced) 에 도달했고 cross-over 가 발생하지 않는다.
-
-`-` 즉 같은 $b$, 같은 시뮬 양식이라도 그래프 크기와 시뮬 길이의 조합에 따라 어떤 regime 이 보이는지가 결정된다. kite 같은 작은 그래프 + 적당한 $\tau$ 가 cross-over 를 직접 보고 측정하기에 좋은 setup 이다.
+두 그래프 모두 block 있는 Full HST 인데 왜 한쪽은 cross-over 가 보이고 다른쪽은 안 보일까. 차이는 그래프 크기와 시뮬 길이의 조합이다. kite 는 $n=23$, $\tau=10^6$ 이라 ANCHOR–RIGHT 같은 비대칭 pair 의 occupation transient — $\rho_i(t)$ 가 $1/n$ 으로 가는 동안의 편차 — 가 visible scale 에 남아 있다. 그러면 식 안 drift 항 $\bar b^2 \Delta\rho^2 t^3/3$ 이 실재하고, 충분히 큰 $t$ 에서는 fluctuation 항을 압도한다. 반대로 C₆₀+pendant 는 $n=61$ + $\tau = 2 \times 10^9$ 이라 transient 가 모두 씻겨나갔고 모든 pair 가 balanced 에 도달했다. 같은 $b$, 같은 시뮬 양식이라도 그래프 크기와 시뮬 길이의 조합에 따라 어떤 regime 이 보이는지 결정된다. kite 같은 작은 그래프 + 적당한 $\tau$ 가 cross-over scale $t^* = 3\sigma^2/(2\Delta\rho^2)$ 를 직접 보고 측정하기에 좋은 setup 이다.
